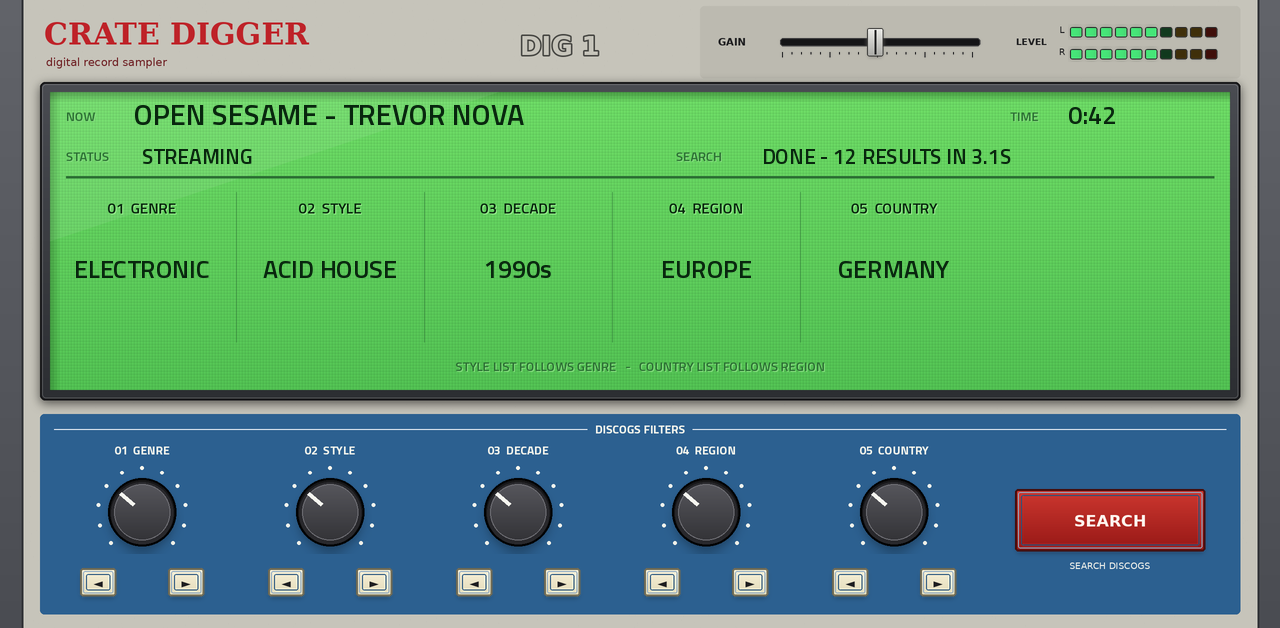
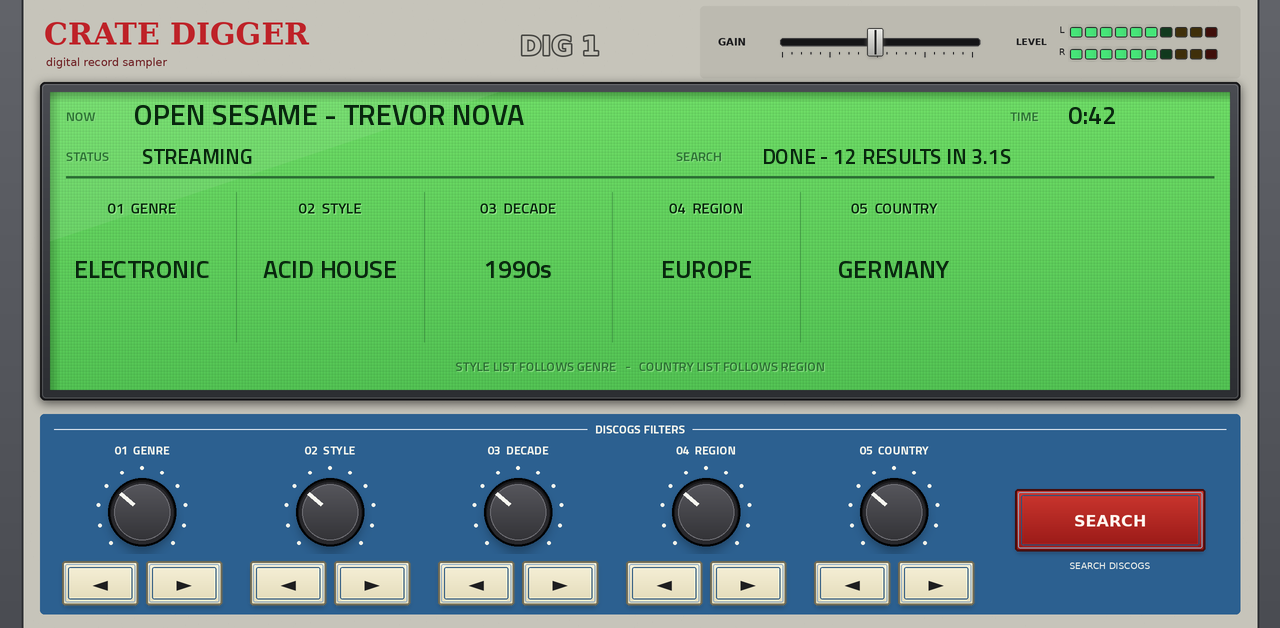
Bigger arrow keys (76x44 on FILTERS, 44x34 on FIND), padded touch areas that never overlap
Claude-Session: https://claude.ai/code/session_01CpoP2qu5ZsqRy4MZa8fTES

Changed region(s): [[0.0312, 0.8774, 0.7812, 0.9682]]

diff --git a/tools/make_tui.py b/tools/make_tui.py
@@ -215,13 +215,14 @@ def add_knob(p, param, cx, cy, r):
     p.kids.append(entry(param, name, {"version": 1, "handleName": "Data"}, "%d %d %d %d" % (cx - size // 2, cy - size // 2, size, size), remap=P(param), focus="Yes"))
 
 
-def arrow(p, param, ch, cx, cy, w=36, h=28, size=12):
+def arrow(p, param, ch, cx, cy, w=36, h=28, size=12, pad=8):
+    """A ◄ / ► key; the touch area is the key plus a small pad, so neighbours never overlap."""
     nm = "arrow_%s" % param
-    sp = Sprite(w + 2 * PAD_X, h + PAD_TOP + PAD_BOT)
-    M.key(sp, sp.w / 2, PAD_TOP + h / 2, w, h, ch, "cream", size=size, lamp=None)
+    sp = Sprite(w + 2 * pad, h + 2 * pad)
+    M.key(sp, sp.w / 2, sp.h / 2, w, h, ch, "cream", size=size, lamp=None)
     img = save(sp.image(), nm + ".png")
     tap_def("cd_" + nm, img, sp.w, sp.h)
-    p.kids.append(entry(nm, "cd_" + nm, {"version": 1, "handleName": "Data"}, "%d %d %d %d" % (cx - sp.w / 2, cy - PAD_TOP - h / 2, sp.w, sp.h), remap=P(param)))
+    p.kids.append(entry(nm, "cd_" + nm, {"version": 1, "handleName": "Data"}, "%d %d %d %d" % (cx - sp.w / 2, cy - sp.h / 2, sp.w, sp.h), remap=P(param)))
 
 
 # ---- shared page art ---------------------------------------------------------------------------------------------------------------------------
@@ -333,8 +334,8 @@ def build_filters():
         c.t((cx, 450), "%02d  %s" % (i + 1, cap), 12, WHITE, "mm", "tb")
         M.knob(c, cx, 512, 34, 0.0, None, big=True, numbers=False, only_ruler=True, ruler_ink=WHITE)
         add_knob(p, key, cx, 512, 34)
-        arrow(p, key + "_prev", "◄", cx - 44, 582)
-        arrow(p, key + "_next", "►", cx + 44, 582)
+        arrow(p, key + "_prev", "◄", cx - 42, 583, w=76, h=44, size=20)
+        arrow(p, key + "_next", "►", cx + 42, 583, w=76, h=44, size=20)
     p.key("search", "SEARCH", "red", 1110, 520, 190, 62, size=16)
     c.t((1110, 566), "SEARCH DISCOGS", 9, WHITE)
     add_master(p)
@@ -348,8 +349,8 @@ def selector(c, p, cx, cy, key, name, gap, r=22):
     M.knob(c, cx, cy, r, 0.0, None, big=True, numbers=False, only_ruler=True)
     c.t((cx, cy + r + 20), name, 9, M.INK)
     add_knob(p, key, cx, cy, r)
-    arrow(p, key + "_prev", "◄", cx - gap, cy, w=36, h=26, size=11)
-    arrow(p, key + "_next", "►", cx + gap, cy, w=36, h=26, size=11)
+    arrow(p, key + "_prev", "◄", cx - gap, cy, w=44, h=34, size=14)
+    arrow(p, key + "_next", "►", cx + gap, cy, w=44, h=34, size=14)
 
 
 def build_find():
